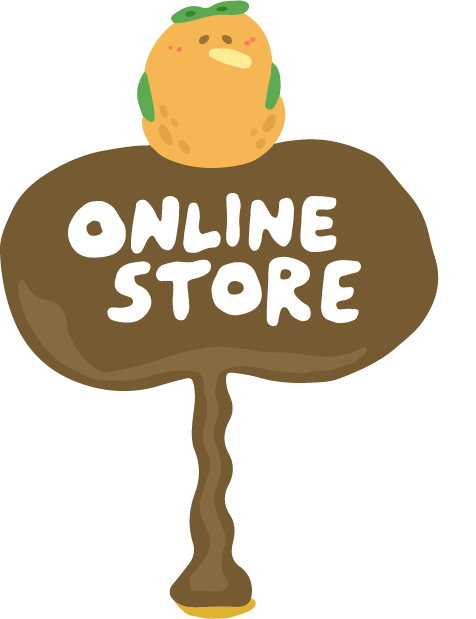
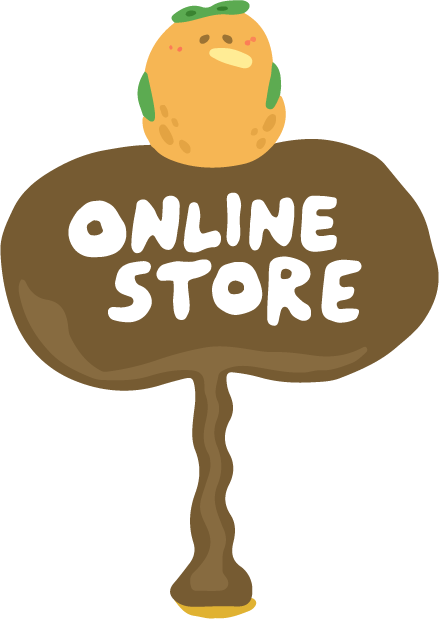
Add files via upload

diff --git a/style.css b/style.css
@@ -199,6 +199,14 @@
     margin-bottom: 3%;
 }
 
+.image {
+    transition: transform 0.3s;
+}
+
+.image:hover {
+    transform: scale(1.2);
+}
+
 .bubble3 {
     position: absolute;
     top: 8%;
@@ -234,6 +242,19 @@
     position: absolute;
     top: 4%;
     left: 27%;
+    animation: fadeIn 1.7s ease-in-out infinite;
+}
+
+@keyframes fadeIn {
+    0% {
+        opacity: 0;
+    }
+    50% {
+        opacity: 1;
+    }
+    100% {
+        opacity: 0;
+    }
 }
 
 .bg-5 {
@@ -284,6 +305,22 @@
     bottom: 19%;
 }
 
+.arrow {
+    position: absolute;
+    left: 30%;
+    bottom: 43%;
+    animation: zoom-in 1s infinite alternate;
+}
+
+@keyframes zoom-in {
+    from {
+        transform: scale(1);
+    }
+    to {
+        transform: scale(1.2);
+    }
+}
+
 .fufu01 {
     position: absolute;
     right: 4%;
@@ -300,6 +337,22 @@
     position: absolute;
     left: 30%;
     bottom: 15%;
+}
+
+.heart {
+    position: absolute;
+    left: 42%;
+    bottom: 26%;
+    animation: slide-up-right 1.5s infinite;
+}
+
+@keyframes slide-up-right {
+	from {
+		transform: translate(0, 0);
+	}
+	to {
+		transform: translate(40px, -70px);
+	}
 }
 
 .contact {
@@ -346,9 +399,9 @@
     }
 
     .gua {
-        margin-top: 60%;
+        margin-top: 40%;
         width: 250px;
-        margin-left: 22%;
+        margin-left: 18%;
     }
 
     .ufo {
@@ -361,22 +414,22 @@
     .pet {
         position: absolute;
         width: 80px;
-        left: 7%;
-        top: 37%;
+        left: 5%;
+        top: 35%;
     }  
 
     .tea {
         position: absolute;
-        width: 55px;
+        width: 50px;
         right: 8%;
-        bottom: 35%;
+        bottom: 25%;
     }   
 
     .h2 {
         font-size: x-small;
         position: absolute;
         left: 21%;
-        bottom: 33%;
+        bottom: 15%;
     }
 
     .h3 {
@@ -391,14 +444,14 @@
         position: absolute;
         width: 20px;
         left: 28%;
-        top: 28%;        
+        top: 22%;        
     }
 
     .star2 {
         position: absolute;
         width: 20px;
         left: 22%;
-        top: 30%; 
+        top: 25%; 
     }
 
     .bubble2 {
@@ -434,7 +487,7 @@
     .other {
         position: absolute;
         width: 200px;
-        left: 25%;
+        left: 22%;
         top: 2.5%;
     }
     
@@ -454,7 +507,7 @@
 
     .ch1 {
         font-size: small;
-        width: 160px;
+        width: 150px;
     }
 
     .ch2 {
@@ -464,13 +517,13 @@
 
     .ch3 {
         font-size: small;
-        margin-left: 35%;
+        margin-left: 30%;
         width: 170px;
     }
 
     .ch4 {
         font-size: small;
-        width: 160px;
+        width: 150px;
     }
     
     .ch5 {
@@ -480,7 +533,7 @@
 
     .ch6 {
         font-size: small;
-        margin-left: 35%;
+        margin-left: 30%;
         width: 170px;
     }
 
@@ -498,14 +551,14 @@
 
     .artwork1 {
         position: absolute;
-        width: 250px;
+        width: 240px;
         top: 15%;
-        left: 19%;
+        left: 18%;
     }
     
     .artwork2 {
         position: absolute;
-        width: 400px;
+        width: 370px;
         top: 15%;
         left: 1%;
     }
@@ -568,9 +621,13 @@
     
     .onlinestore {
         position: absolute;
-        left: 8%;
+        left: 6%;
         bottom: 32%;
-        width: 180px;
+        width: 160px;
+    }
+
+    .arrow {
+        display: none;
     }
     
     .fufu01 {
@@ -594,6 +651,23 @@
         bottom: 25%;
         width: 90px;
     }
+
+    .heart {
+        position: absolute;
+        left: 25%;
+        bottom: 35%;
+        width: 25px;
+        animation: slide-up-right 1.5s infinite;
+    }
+    
+    @keyframes slide-up-right {
+        from {
+            transform: translate(0, 0);
+        }
+        to {
+            transform: translate(15px, -10px);
+        }
+    }
     
     .contact {
         position: absolute;
@@ -606,21 +680,21 @@
         position: absolute;
         left: 4%;
         bottom: 2%;
-        width: 30px;
+        width: 20px;
     }
     
     .text-box2 {
         position: absolute;
-        left: 21%;
+        left: 22%;
         top: 18%;
         font-family: 'Gill Sans', 'Gill Sans MT', Calibri, 'Trebuchet MS', sans-serif;
-        font-size: 13px;
+        font-size: 12px;
     }
     
     .text-box3 {
         position: absolute;
         right: 8%;
-        bottom: 3%;
+        bottom: 0;
         font-family: 'Gill Sans', 'Gill Sans MT', Calibri, 'Trebuchet MS', sans-serif;
         letter-spacing: 2px;
         font-size: 15px;
@@ -630,6 +704,7 @@
     
     .text2 {
         margin-bottom: 1%;
+        margin-top: 5%;
     }
 
 

diff --git a/index.html b/index.html
@@ -117,7 +117,7 @@
 
                 <div class="col text-center"> 
                     <div class="ch1">                   
-                        <img src="NORMALON.png" class="img-fluid" alt="">
+                        <img class="image img-fluid" src="NORMALON.png" alt="">
                         <div class="px-3">
                             <h2 class="mt-4">NORMALON</h2>
                             <p class="text-justify">NORMAL MELON GUA GUA'S CITIZEN</p>
@@ -127,7 +127,7 @@
 
                 <div class="col text-center">
                     <div class="ch2">                   
-                        <img src="MALONY.png" class="img-fluid" alt="">
+                        <img class="image img-fluid" src="MALONY.png" alt="">
                         <div class="px-3">
                             <h2 class="mt-4">MALONY</h2>
                             <p class="text-justify">LOVELY MELON GUA GUA'S CITIZEN</p>
@@ -137,7 +137,7 @@
 
                 <div class="col text-center">   
                     <div class="ch3">                
-                        <img src="MELON BEE.png" class="img-fluid" alt="">
+                        <img class="image img-fluid" src="MELON BEE.png" alt="">
                         <div class="px-3">
                             <h2 class="mt-4">MELON BEE</h2>
                             <p class="text-justify">LIKE BITE FRUITS ESPECIALLY MELON</p>
@@ -155,7 +155,7 @@
 
                 <div class="col text-center">
                     <div class="ch4">                   
-                        <img src="MR.JELLY.png" class="img-fluid" alt="">
+                        <img class="image img-fluid" src="MR.JELLY.png" alt="">
                         <div class="px-3">
                             <h2 class="mt-4">MR. JELLY</h2>
                             <p class="text-justify">PINK JELLYFISH HAVE FIVE TENTACLES</p>
@@ -165,7 +165,7 @@
 
                 <div class="col text-center">
                     <div class="ch5">                    
-                        <img src="FUFU.png" class="img-fluid" alt="">
+                        <img class="image img-fluid" src="FUFU.png" alt="">
                         <div class="px-3">
                             <h2 class="mt-4">FU FU</h2>
                             <p class="text-justify">BULE FLOWER CAT ALWAYS RUNNY NOSE</p>
@@ -175,7 +175,7 @@
 
                 <div class="col text-center"> 
                     <div class="ch6">                   
-                        <img src="ORANGE.png" class="img-fluid" alt="">
+                        <img class="image img-fluid" src="ORANGE.png" alt="">
                         <div class="px-3">
                             <h2 class="mt-4">ORANGE</h2>
                             <p class="text-justify">BIRD LIKES ORANGE GUA GUA'S FRIEND</p>
@@ -334,7 +334,9 @@
                 </div>
 
                 <div class="onlinestore">
-                    <img src="online store.png" class="img-fluid" alt="">
+                    <a href="#">
+                        <img src="online store.png" class="img-fluid" alt="">
+                    </a>
                 </div>
 
                 <div class="octopus">
@@ -345,6 +347,10 @@
                     <img src="zumb.png" class="img-fluid" alt="">
                 </div>
 
+                <div class="heart">
+                    <img src="heart.png" class="img-fluid" alt="">
+                </div>
+
                 <div class="contact" id="CONTACT">
                     <img src="contact.png" class="img-fluid" alt="">
                 </div>
@@ -352,29 +358,22 @@
                 <div class="line">
                     <img src="line.png" class="img-fluid" alt="">
                 </div>
+
+                <div class="arrow">
+                    <img src="arrow.png" class="img-fluid" alt="">
+                </div>
                 
                 <div class="text-box3">
                     <p>GMAIL : IRIS12250606@GMAIL.COM</p>
                     <p>PHONE : 0900226422</p>
                     <p>FB/IG : melon_iris</p>
                 </div>
-                
-
-                
+                            
             </div>
 
             <div class="row-4"></div>
 
         </div>
-
-
-
-        
-
-
-    
-
-
 
         <script src="https://cdnjs.cloudflare.com/ajax/libs/bootstrap/5.3.2/js/bootstrap.bundle.min.js"></script>
         <script src="https://cdn.jsdelivr.net/npm/bootstrap@5.3.0-alpha1/dist/js/bootstrap.bundle.min.js"
